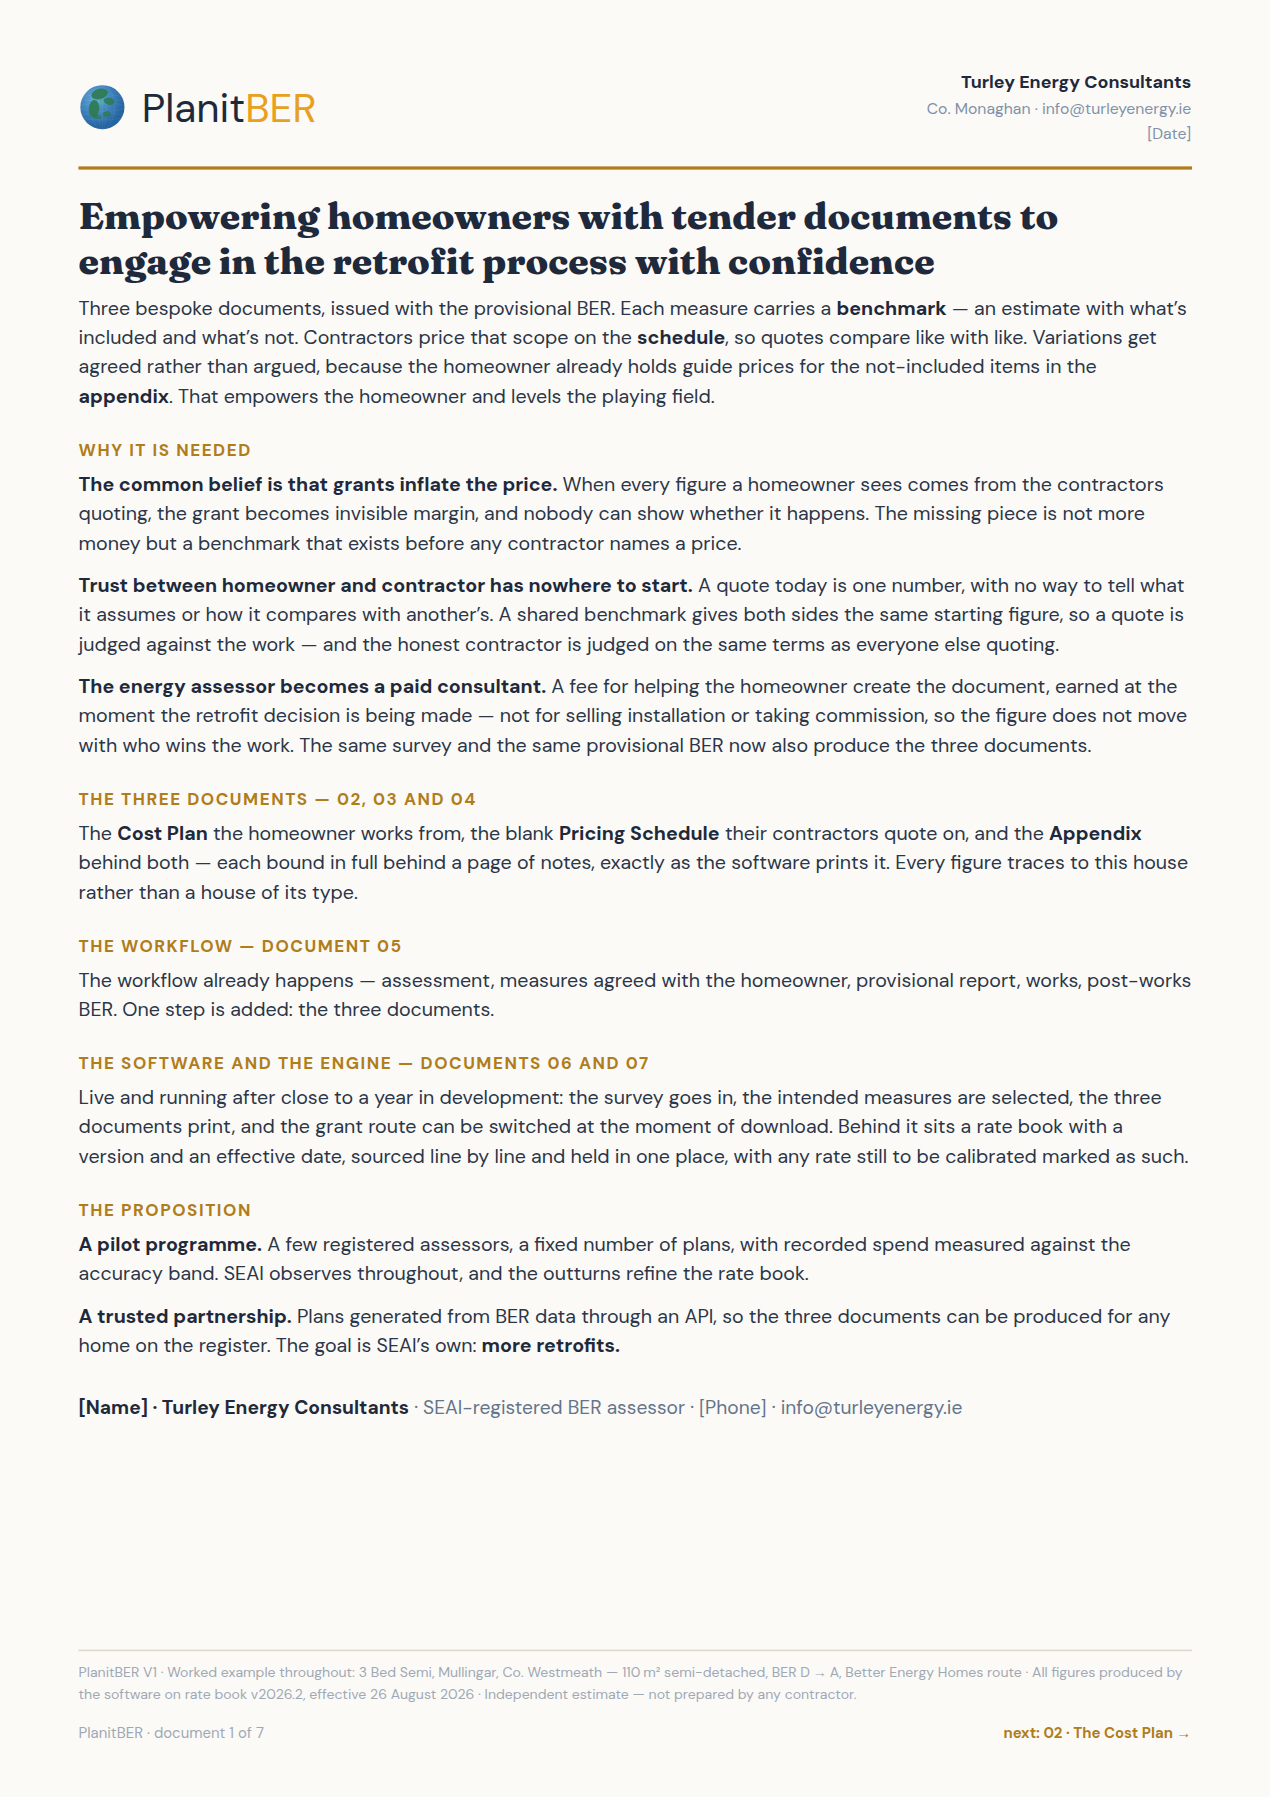
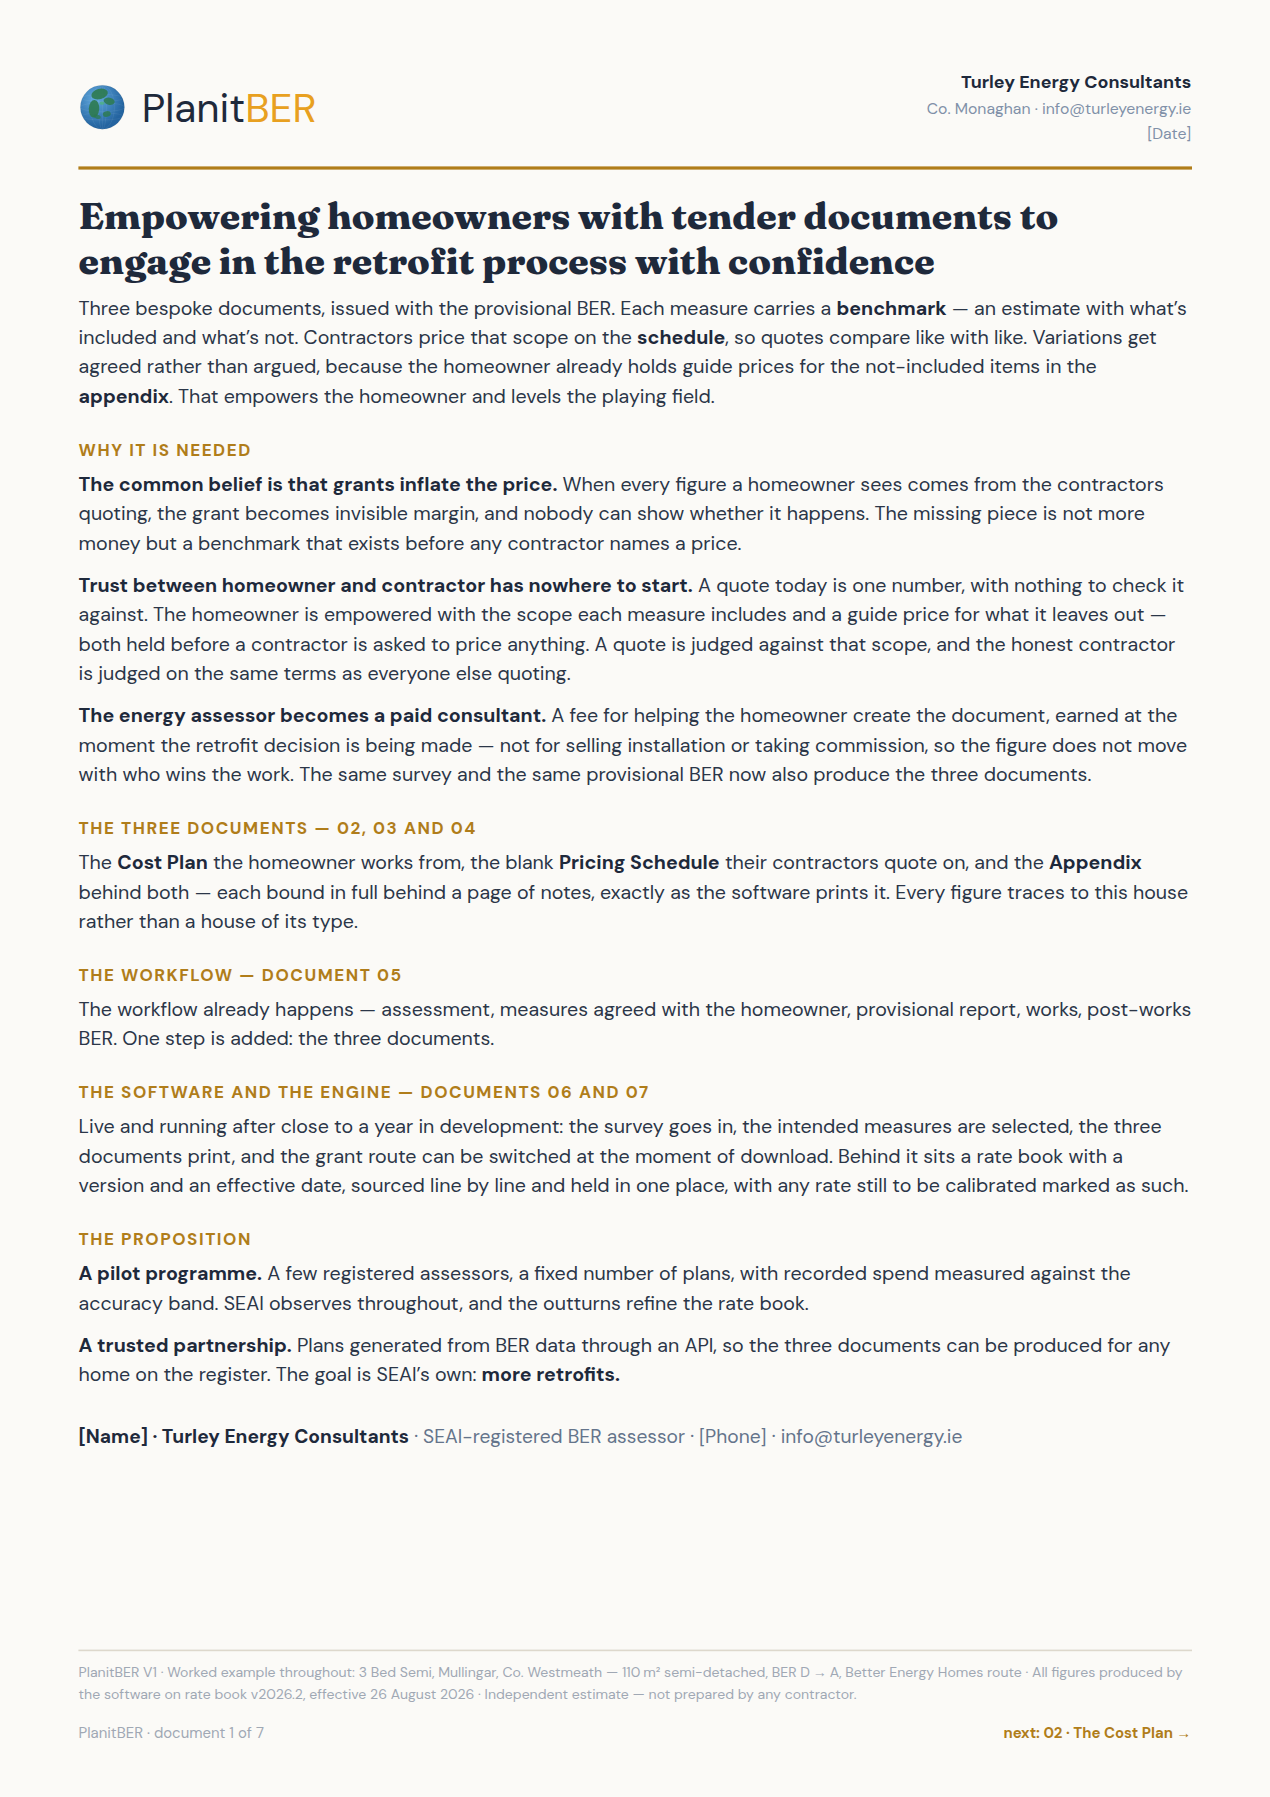
Doc 01: name the scope and the guide price as what empowers the homeowner
The trust paragraph said "a shared benchmark gives both sides the same
starting figure" -- true, but abstract, and it left "empowered" as an
assertion rather than showing the mechanism. It now names the two things
the homeowner actually holds: the scope each measure includes, and a guide
price for what it leaves out -- both held before a contractor is asked to
price anything. This also ties the paragraph directly to the opening
sentence's own terms ("an estimate with what's included and what's not"),
which is the language the rest of the pack uses throughout.

All seven documents fit.

Claude-Session: https://claude.ai/code/session_017c6VtAdYwGJhpVqbEFh3tW

Changed region(s): [[0.0614, 0.3116, 0.9213, 0.8102]]

diff --git a/pack/seai_pack.py b/pack/seai_pack.py
@@ -285,10 +285,10 @@ doc1 = f'''<div class="sheet">
     nobody can show whether it happens. The missing piece is not more money but a benchmark that exists
     before any contractor names a price.</p>
   <p class="body" style="font-size:9.2pt;line-height:1.50;margin-bottom:2.1mm;"><strong>Trust between homeowner and contractor has nowhere to
-    start.</strong> A quote today is one number, with no way to tell what it assumes or how it compares
-    with another&rsquo;s. A shared benchmark gives both sides the same starting figure, so a quote is
-    judged against the work &mdash; and the honest contractor is judged on the same terms as everyone
-    else quoting.</p>
+    start.</strong> A quote today is one number, with nothing to check it against. The homeowner is
+    empowered with the scope each measure includes and a guide price for what it leaves out &mdash; both
+    held before a contractor is asked to price anything. A quote is judged against that scope, and the
+    honest contractor is judged on the same terms as everyone else quoting.</p>
   <p class="body" style="font-size:9.2pt;line-height:1.50;margin-bottom:2.1mm;"><strong>The energy assessor becomes a paid consultant.</strong> A fee
     for helping the homeowner create the document, earned at the moment the retrofit decision is being
     made &mdash; not for selling installation or taking commission, so the figure does not move with who
